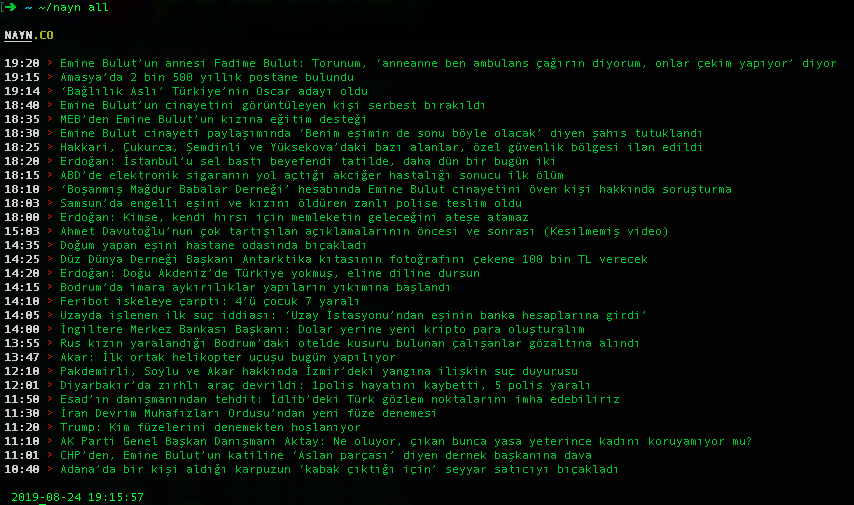
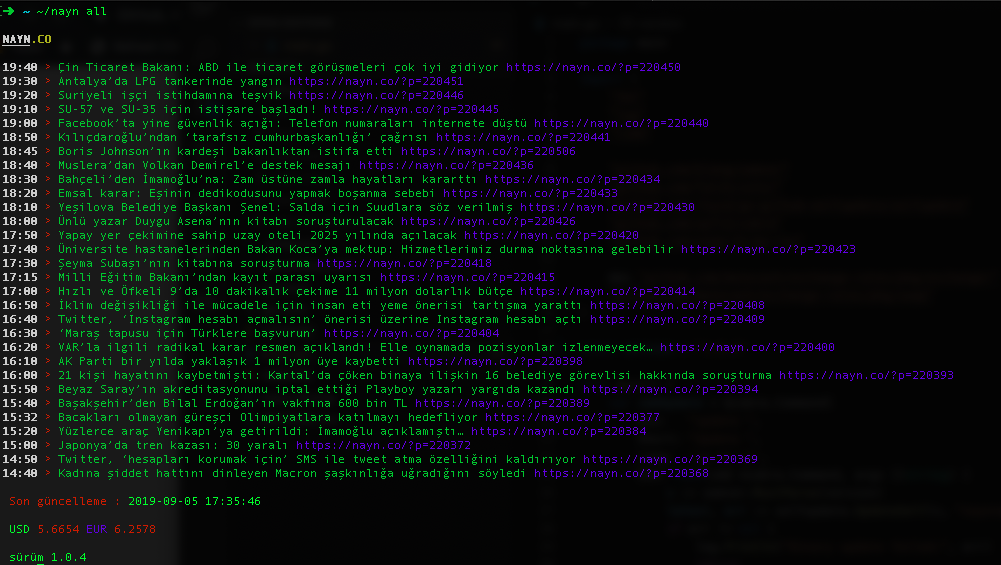
screenshot updated

diff --git a/main.go b/main.go
@@ -15,7 +15,7 @@ import (
 	"github.com/monocash/exchange-rates/pkg/swap"
 )
 
-const version = "1.0.3"
+const version = "1.0.4"
 
 func main() {
 	var cmdUpdate = &cobra.Command{
